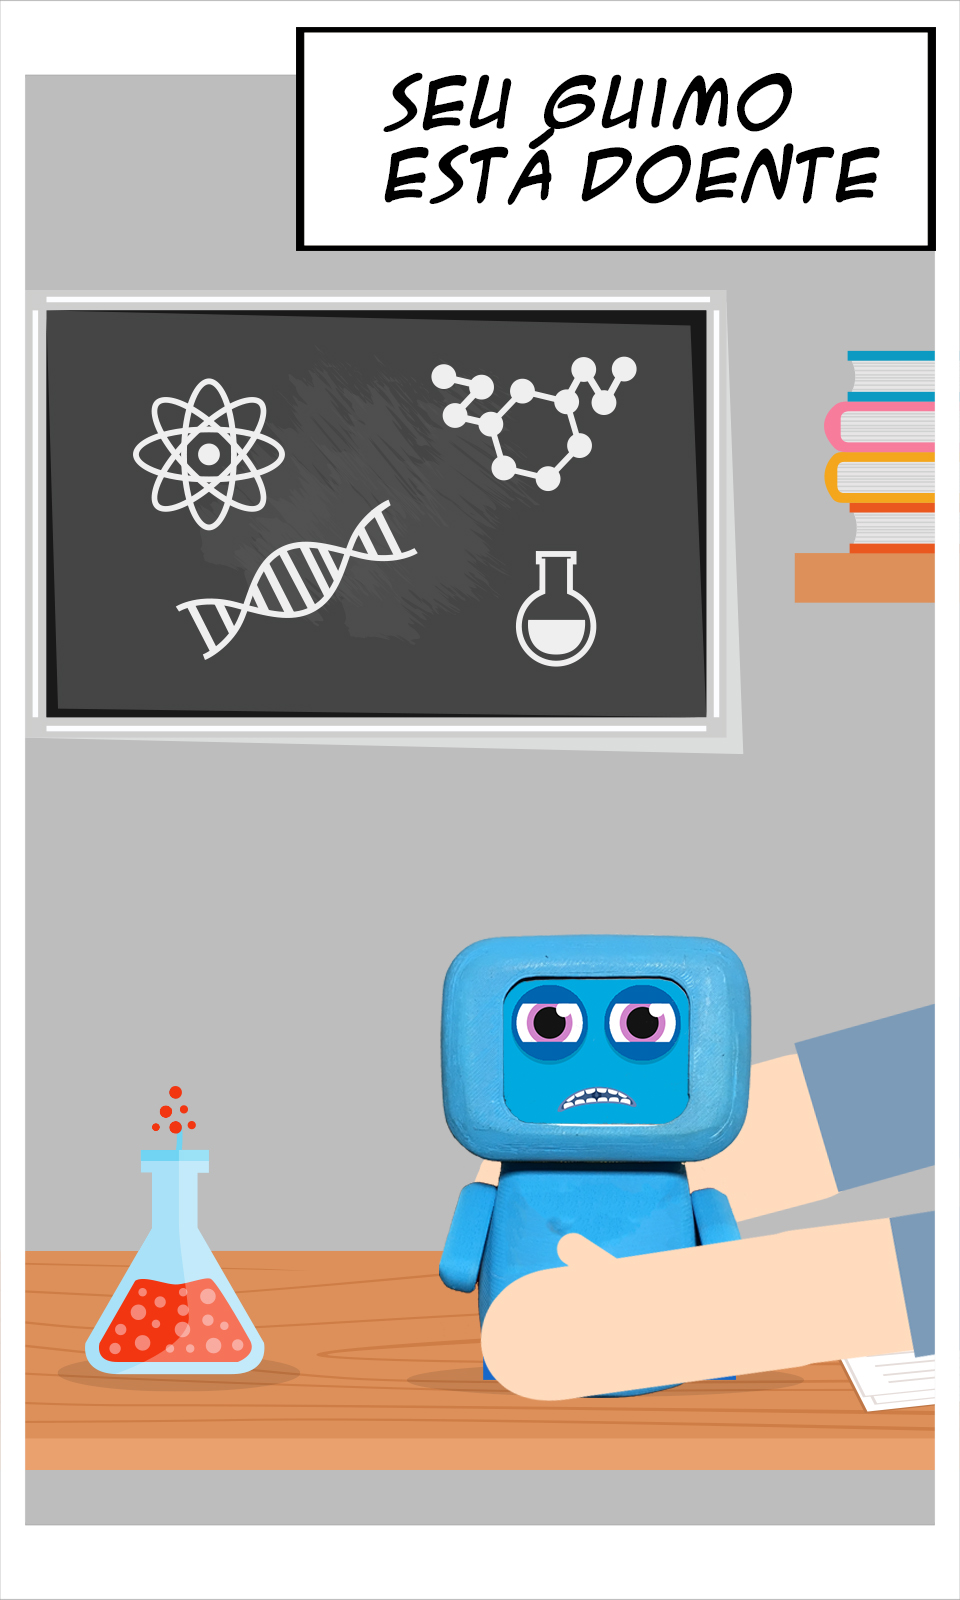
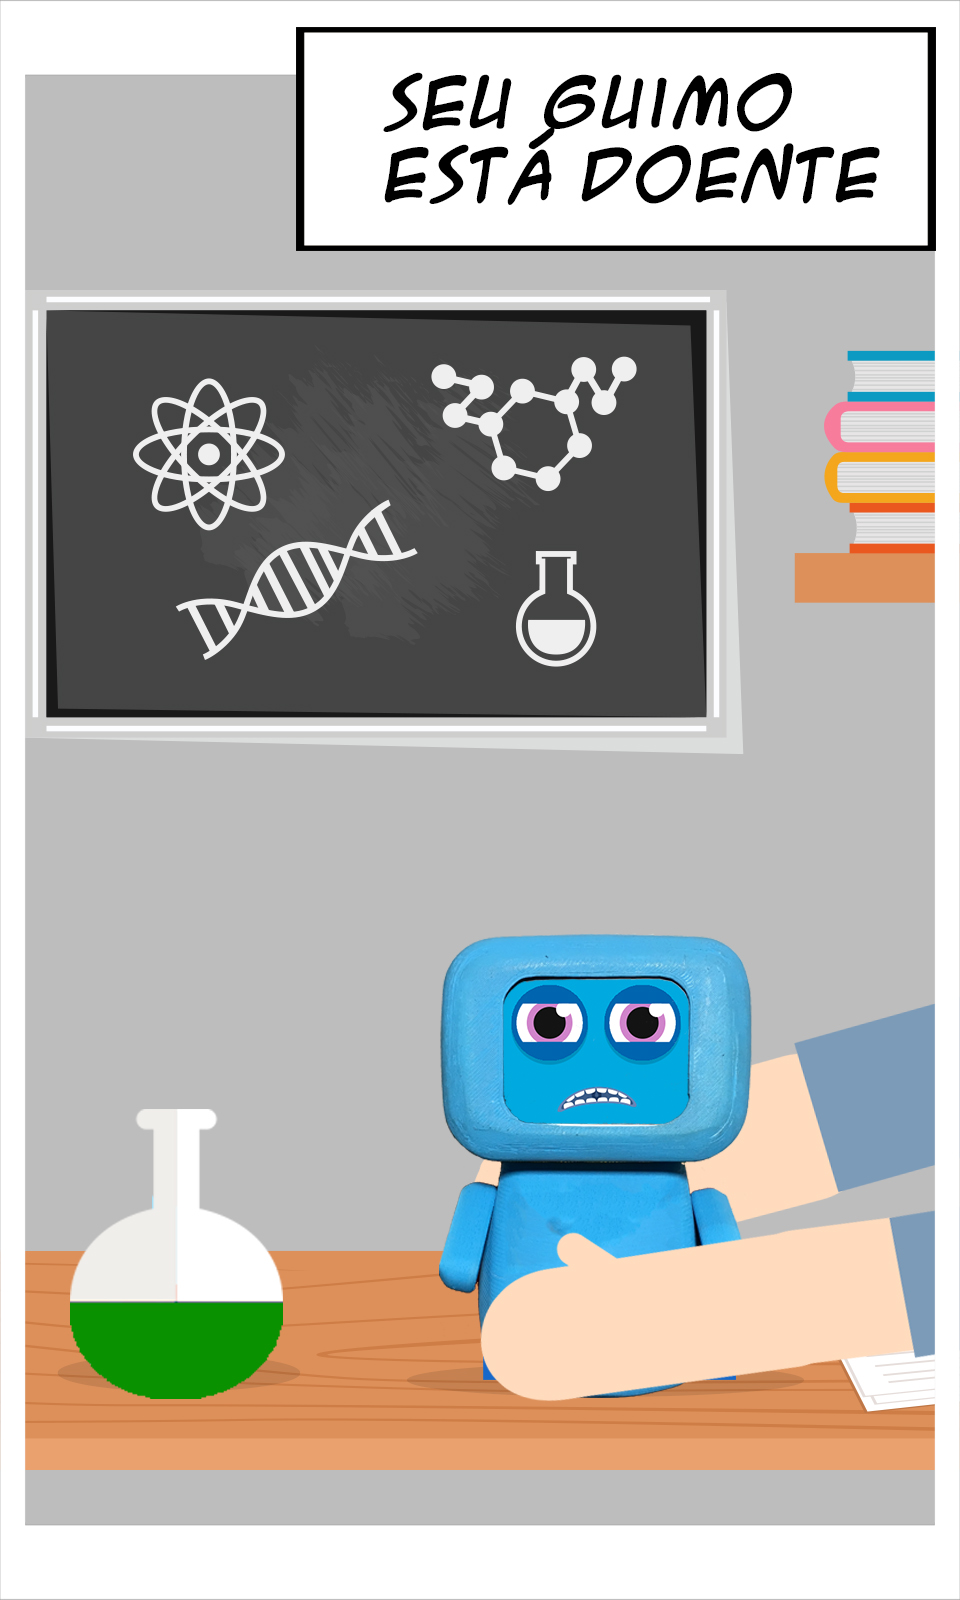
Added new Hqs in Mission 02 Changed Pocao Liquid to green Worked in Mission02

Changed region(s): [[0.0625, 0.6875, 0.3125, 0.875]]

diff --git a/src/pages/mission02/mission02.ts b/src/pages/mission02/mission02.ts
@@ -1,5 +1,6 @@
 import { Component } from '@angular/core';
-import { NavController, NavParams,AlertController} from 'ionic-angular';
+import { NavController, NavParams, AlertController, Events } from 'ionic-angular';
+import { GuimoDb } from './../../providers/guimo-db';
 import { ScreenOrientation } from '@ionic-native/screen-orientation';
 
 /*
@@ -13,9 +14,38 @@ import { ScreenOrientation } from '@ionic-native/screen-orientation';
   templateUrl: 'mission02.html'
 })
 export class Mission02Page {
-
-  constructor(public navCtrl: NavController, public navParams: NavParams,
-    private screenOrientation: ScreenOrientation) {}
+ 
+  pocoes = [
+    {
+      img: 'pocao1.png',
+      value: 1,
+      name:'Poção Amarela',
+      selected: false,
+    },
+    {
+      img: 'pocao2.png',
+      value: 2,
+      name:'Poção Azul',
+      selected: false,
+    },
+    {
+      img: 'pocao4.png',
+      value: 4,
+      name:'Poção Vermelha',
+      selected: false,
+    },
+  ];
+  pocoesSelected: Array<number> = [];
+  somaPocao:number  = 0;
+  imgPocao = "pocao"+this.somaPocao+".png";
+  constructor(
+    public navCtrl: NavController, 
+    public navParams: NavParams,
+    private screenOrientation: ScreenOrientation,
+    private alt: AlertController,
+    private guimoDb: GuimoDb,
+    private evt: Events,
+    ) {}
 
   ionViewDidLoad() {
     console.log('ionViewDidLoad Mission02Page');
@@ -25,12 +55,66 @@ export class Mission02Page {
     }).catch( err =>{
       console.log(err);
     });
+
   }
 
   ionViewWillLeave(){
     this.screenOrientation.lock(this.screenOrientation.ORIENTATIONS.PORTRAIT).then( () =>{
       console.log('Screen Orientation '+this.screenOrientation.ORIENTATIONS.PORTRAIT);
     });
+  }
+
+  misturaPocao(value:number, i: number){
+    if(this.pocoesSelected.length < 2){
+      
+      this.pocoesSelected.push(value);
+      this.pocoes[i].selected = true;
+      this.somaPocao = 0;
+        for(var i =0; i < this.pocoesSelected.length; i++){
+          this.somaPocao += this.pocoesSelected[i];
+        }
+        if(this.somaPocao == 3 ){
+          let alert = this.alt.create({
+            title:"Parabéns!!",
+            subTitle: "Você concluiu a segunda missão missão!!",
+            message: "<img src='assets/imgs/medalha2_hq.jpg' alt='medalha'></img>",
+            buttons: [{
+              text:"Ok",
+              handler: data =>{
+                this.guimoDb.updateMissions(3,1).then(()=>{
+                  console.log('Updated mission 02');
+                  this.navCtrl.popTo(this.navCtrl.getByIndex(1));
+                });
+              }
+            }]
+          });
+          setTimeout(()=>{
+            alert.present();
+          },1000);
+        }
+
+        this.imgPocao = "pocao"+this.somaPocao+".png";
+    }else{
+      for(var j = 0; j < this.pocoes.length; j++){
+        this.pocoes[j].selected = false;
+      }
+      this.pocoesSelected = [];
+      this.misturaPocao(value,i);
+    }
+    
+    if(this.pocoesSelected.length == 1){
+      this.imgPocao = "pocao"+this.somaPocao+".png";
+    }
+
+  }
+
+  resetBalde(){
+    this.pocoesSelected = [];
+    this.somaPocao = 0;
+    this.imgPocao = "pocao"+this.somaPocao+".png";
+    for(var j = 0; j < this.pocoes.length; j++){
+      this.pocoes[j].selected = false;
+    }
   }
 
 }

diff --git a/src/pages/mission02/mission02.html b/src/pages/mission02/mission02.html
@@ -4,6 +4,68 @@
   See http://ionicframework.com/docs/v2/components/#navigation for more info on
   Ionic pages and navigation.
 -->
-<ion-content padding>
-  
+<ion-content no-padding no-margin>
+  <ion-fab middle left>
+    <button ion-fab (click)="resetBalde()" color="light"><ion-icon name="trash"></ion-icon></button>
+  </ion-fab>
+
+      <ion-grid>
+        <ion-row>
+            <ion-col col-4>
+              <ion-list no-margin>
+                <ion-list-header color="ygold" no-margin no-padding text-center>
+                  No Balde
+                </ion-list-header>
+                  <ion-item *ngFor="let ps of pocoesSelected; let i = index" no-padding>
+                    <span *ngIf="ps == 1">Poção Amarela   </span>
+                    <span *ngIf="ps == 2">Poção Azul  </span>
+                    <span *ngIf="ps == 4">Poção Vermelha  </span>
+                  </ion-item>
+              </ion-list>
+            </ion-col>
+
+            <ion-col col-4>
+              <ion-card no-margin>
+                <ion-item color="light">
+                  <h2 text-capitalize text-center>Mistura</h2>
+                </ion-item>
+
+                <img src="assets/imgs/{{imgPocao}}" id="pocaoResult" alt="pocao">  
+              </ion-card>
+            </ion-col>
+
+            <ion-col col-4>
+              <div *ngIf="pocoesSelected.length == 2" no-padding>
+                  <strong *ngIf="somaPocao == 3">Resultado: Poção Verde</strong>
+                  <strong *ngIf="somaPocao == 5">Resultado: Poção Laranja</strong>
+                  <strong *ngIf="somaPocao == 6">Resultado: Poção Roxa</strong>
+
+              </div>
+            </ion-col>
+            
+        </ion-row>
+        <ion-row>
+          <ion-col col-4 *ngFor="let p of pocoes; let i = index;">
+            
+            <ion-card no-margin>
+              <ion-item color="light">
+                <h2 text-capitalize text-center>{{p.name}}</h2>
+              </ion-item>
+
+              <img src="assets/imgs/{{p.img}}" alt="pocao_amarela">
+              <ion-row>
+                <ion-col col-12>
+                  <button ion-button icon-only outline full *ngIf="!p.selected" color="secondary" (click)="misturaPocao(p.value, i)">
+                    <ion-icon name="add-circle"></ion-icon> 
+                  </button>
+                  <button ion-button icon-only full *ngIf="p.selected" color="secondary" (click)="misturaPocao(p.value, i)" disabled>
+                    <ion-icon name="add-circle"></ion-icon> 
+                  </button>
+                </ion-col>
+              </ion-row>
+            </ion-card>
+
+          </ion-col>
+        </ion-row>
+      </ion-grid>
 </ion-content>

diff --git a/src/pages/mission02-hq/mission02-hq.ts b/src/pages/mission02-hq/mission02-hq.ts
@@ -1,7 +1,9 @@
+import { BluetoothSerial } from '@ionic-native/bluetooth-serial';
 import { Component } from '@angular/core';
-import { NavController, NavParams } from 'ionic-angular';
+import { NavController, NavParams, Events, AlertController } from 'ionic-angular';
 import { Mission02Page } from './../mission02/mission02';
-
+import { Slides } from 'ionic-angular';
+import { ViewChild } from '@angular/core';
 /*
   Generated class for the Mission02Hq page.
 
@@ -13,15 +15,64 @@ import { Mission02Page } from './../mission02/mission02';
   templateUrl: 'mission02-hq.html'
 })
 export class Mission02HqPage {
-
-  constructor(public navCtrl: NavController, public navParams: NavParams) {}
+   @ViewChild(Slides) slides: Slides;
+   slideToNext:boolean = true;
+  constructor(
+      public navCtrl: NavController, 
+      public navParams: NavParams,
+      public alert: AlertController,
+      private evt: Events,
+      private blt: BluetoothSerial) {}
 
   ionViewDidLoad() {
-    console.log('ionViewDidLoad Mission02HqPage');
+    let interval = setInterval(()=>{
+      this.blt.write("corpo\n").then(()=>{
+        console.log('enviou corpo');
+      }) 
+    },4000);
+
+    
+    this.evt.subscribe("guimo:nave",(data)=>{
+      this.slideToNext = data;
+      console.log('guimoNave->',data);
+      if(!data){
+        let alt = this.alert.create({
+          title: 'Legal!!',
+          message: 'Agora que você montou a nave, pode continuar a história!!',
+          buttons:['Ok']
+        });
+        clearInterval(interval);
+        setTimeout(()=>{
+          alt.present().then(()=>{
+            this.slideToNext = false;
+            this.slides.lockSwipeToNext(false);
+          });
+        },1500)
+        
+      }
+          
+    });
   }
 
   goToMission(){
     this.navCtrl.push(Mission02Page);
+  }
+
+  countSlides(){
+    console.log(this.slides.getActiveIndex());
+    let currentIndex = this.slides.getActiveIndex();
+    if(currentIndex == 4 ){
+      this.slides.lockSwipeToNext(true);
+      let alt = this.alert.create({
+        title:" Monte a nave",
+        message: " Agora você já pode montar a nave!",
+        buttons: ["Ok"]
+      });
+
+      setTimeout(()=>{alt.present();},1500)
+      
+
+    }
   }
 
 }

diff --git a/src/pages/mission02-hq/mission02-hq.html b/src/pages/mission02-hq/mission02-hq.html
@@ -5,7 +5,31 @@
   Ionic pages and navigation.
 -->
 <ion-content no-padding>
-  <ion-slides pager>
+  <ion-slides pager (ionSlideDidChange)="countSlides()">
+
+  <ion-slide no-padding no-margin>
+    <img src="assets/imgs/HQnavequebradareal.jpg" alt="img1">
+  </ion-slide>
+
+  <ion-slide no-padding no-margin>
+    <img src="assets/imgs/HQnavequebrada1passo.jpg" alt="img2">
+  </ion-slide>
+
+  <ion-slide no-padding no-margin>
+    <img src="assets/imgs/HQnavequebrada2passo.jpg" alt="img3">
+  </ion-slide>
+
+  <ion-slide no-padding no-margin>
+    <img src="assets/imgs/HQnavequebrada3passo.jpg" alt="img4">
+  </ion-slide>
+
+  <ion-slide no-padding no-margin>
+    <img src="assets/imgs/HQnavequebrada4passo.jpg" alt="img4">
+  </ion-slide>
+
+  <ion-slide no-padding no-margin>
+    <img src="assets/imgs/HQnavequebrada.jpg" alt="img1">
+  </ion-slide>
 
   <ion-slide no-padding no-margin>
     <img src="assets/imgs/HQCabineNave.jpg" alt="img1">

diff --git a/src/pages/home/home.ts b/src/pages/home/home.ts
@@ -142,7 +142,15 @@ export class HomePage {
             this.guimo.btStatus = true;
             //this.guimo.defaultConnection();
             this.events.publish('bt:Connected',this.btConnected);
-            
+            this.guimo.subscribe("\n").subscribe((bdata)=>{
+              console.log(JSON.stringify(bdata));
+              if(bdata == "desmontado\r\n"){
+                this.events.publish("guimo:nave",true);
+              }
+              if(bdata == "nave\r\n"){
+                this.events.publish("guimo:nave",false);
+              }
+            });
             //this.guimo.checkEnergyStatus();
           }, err =>{
             console.log(err);

diff --git a/src/pages/mission03/mission03.ts b/src/pages/mission03/mission03.ts
@@ -115,7 +115,7 @@ workspace: any;
       let alert = this.alertCtrl.create({
         title:"Parabéns!!",
         subTitle: "Você concluiu a segunda missão!!",
-        message: "<img src='assets/imgs/medalha2_hq.jpg' alt='medalha'></img>",
+        message: "<img src='assets/imgs/medalha3_hq.jpg' alt='medalha'></img>",
         buttons: [{
           text:"Ok",
           handler: data =>{

diff --git a/src/pages/hq-home/hq-home.html b/src/pages/hq-home/hq-home.html
@@ -33,7 +33,7 @@
   </ion-slide>
 
   <ion-slide no-padding no-margin>
-    <button ion-button large clear icon-right color="secondary" class="overlayBtn" (click)="goToHome()">
+    <button ion-button large outline icon-right color="secondary" class="overlayBtn" (click)="goToHome()">
       Continue
       <ion-icon name="arrow-forward"></ion-icon>
     </button>

diff --git a/src/providers/guimo.ts b/src/providers/guimo.ts
@@ -314,6 +314,10 @@ export class Guimo {
     return this.bluetoothSerial.connect(macAddres)
   }
 
+  public subscribe(delimiter:string): Observable<any>{
+    return this.bluetoothSerial.subscribe(delimiter);
+  }
+
   public defaultConnection(){
     if(this.food < 20 && this.health >= 25){
       this.activeScreen = Guimo.SCREEN_HUNGRY;

diff --git a/src/pages/mission02/mission02.scss b/src/pages/mission02/mission02.scss
@@ -1,3 +1,14 @@
 page-mission02 {
-    
+    ion-card img{
+        height: 70px;
+        width: 100%;
+    }
+
+    img#pocaoResult{
+        height: 85px;
+        width: 100%;
+    }
+    ion-item span{
+        font-size: 1.2rem;
+    }
 }
